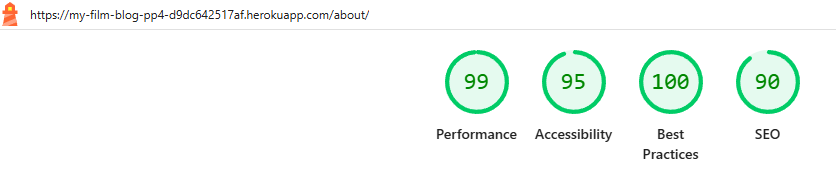
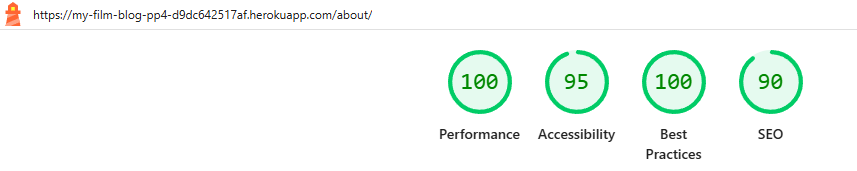
Add to README Features section

diff --git a/README.md b/README.md
@@ -63,6 +63,8 @@ As a super user, I want to be able to monitor user comments with full Create, Re
 
 As a site owner, I want to be able to interact and connect with users, producing relevant content by accepting requests for films to review.
 
+As a site owner, I want to be able to promote user engagement via registration by only accepting film review requests from registered users.
+
 [Back to Top](#ux)
 
 ## [Scope](scope)
@@ -165,11 +167,19 @@ The font used in this project was inspired by a desire to use an uncommon font w
 - The blogsite offers returning users the option to login to continue with access to the site's functionality.
 
 ### About
+<img src="images/filmreview-about.png" alt="About Page" style="width: 100%;"><br>
+- The 'About' page includes a blurb about the reason for the blog and seeks to give visitors some insight into the owner, and their passion for film.
+
+- The page also includes a 'Film Review'submission form for users to submit film titles they specifically want reviewed and why.
+
+- Restrictions are applied to the form prohibiting unregistered users from submitting their requests. This is achieved with the inclusion of 'Login' and 'Register' links within the form which redirect the user to the page once they have either logged in or registered.
 
 [Back to Top](#ux)
 
 ## Future Features
 - Enhance interaction with posts and comments by introducing a 'Like' button.
+
+- Introduce polling system for film review requests and highlight on feature page.
 
 [Back to Top](#ux)
 
@@ -303,7 +313,17 @@ The font used in this project was inspired by a desire to use an uncommon font w
                     <td>Pass</td>
                 </tr>
                 <tr>
-                    <td>User can submit request to owner to review a specific film</td>
+                    <td>User cannot submit request to owner to review a specific film when not logged in</td>
+                    <td>Pass</td>
+                    <td>Pass</td>
+                </tr>
+                <tr>
+                    <td>User can submit request to owner to review a specific film when logged in</td>
+                    <td>Pass</td>
+                    <td>Pass</td>
+                </tr>
+                <tr>
+                    <td>User is redirected to About page if login or register is via film review form</td>
                     <td>Pass</td>
                     <td>Pass</td>
                 </tr>
